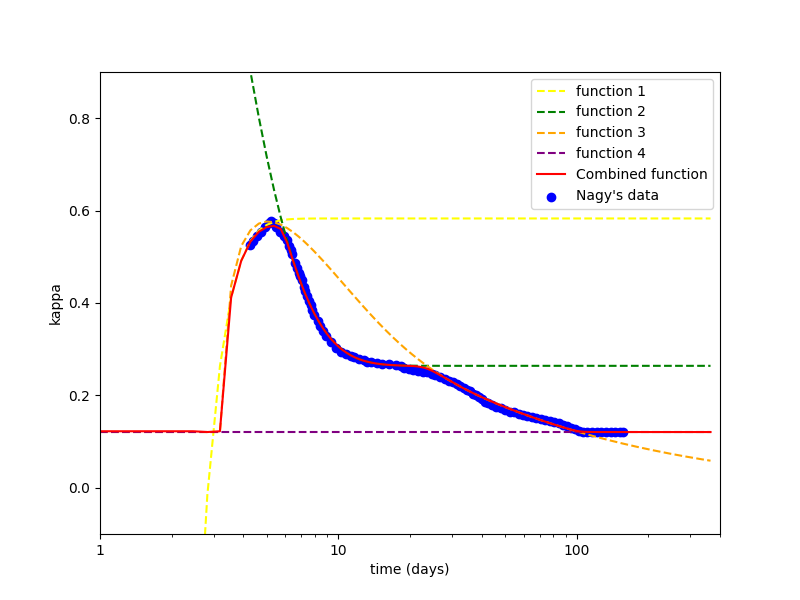
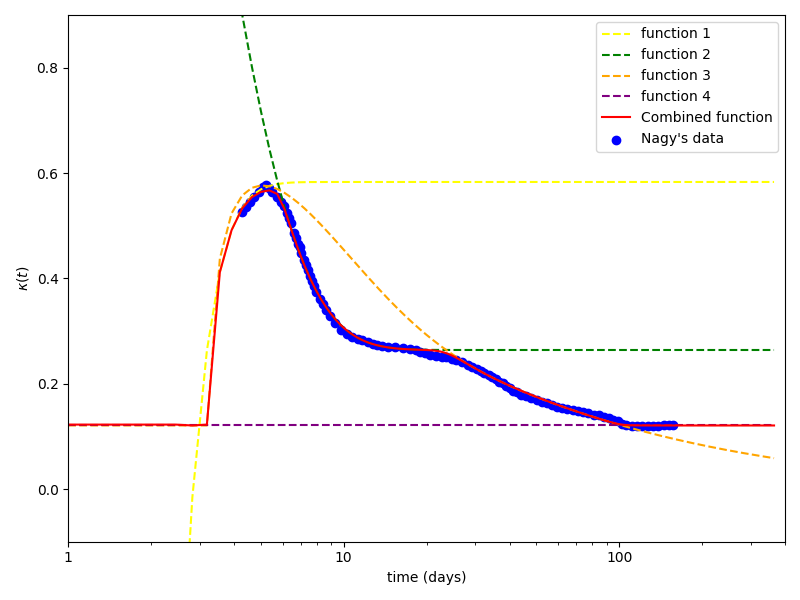
More paramater behaviour
missing bracket, nicer number formatting, wider range of test values, comments, more plots more better,

run into a horrid issue where Windows is bad and can't address floats over 64bits.  Uploading this now just to keep it safe.

diff --git a/arnett_small_R.py b/arnett_small_R.py
@@ -42,11 +42,13 @@ def l_ni(t, m, v_sc, kappa: callable = kappa_const):
 
     def l_ni_integral(z):
         """z is the variable of integration"""
-        res = np.exp((-2 * z * y) + pow(z, 2)) * 2 * z
+        print("NI", "  x=", x, "  y=", y, "  z=", z, "  m=", m, "  v_sc=", v_sc)
+        res = np.exp((-2 * z * y) + np.power(z, 2)) * 2 * z
+        print(f"l_ni_integral = {res: .3e}")
         return res
 
-    result = np.exp(-pow(x, 2)) * quad(l_ni_integral, 0, x)[0]
-    print(f"x={x:.5f}\ty={y:.3f}\txy={(x * y):.3f}\tlambda_ni(x,y)={result:.3f}")
+    result = np.exp(-np.power(x, 2)) * quad(l_ni_integral, 0, x)[0]
+    #print(f"x={x:.5f}\ty={y:.3f}\txy={(x * y):.3f}\tlambda_ni(x,y)={result:.3f}")
     return x * y, result
 
 
@@ -59,18 +61,21 @@ def l_co(t, m, v_sc, kappa: callable = kappa_const):
 
     def l_co_integral(z):
         """z is the variable of integration"""
+        print("CO", "x=", x, "y=", y, "  z=", z)
         # MATLAB: 2*z.*(exp(-2*z*yp) - exp(-2*z*y))/(1 - tau_ni/tau_co).*exp(z.^2)).
-        res = 2 * z * (np.exp(-2 * z * yp) - np.exp(-2 * z * y)) / (1 - tau_ni/tau_co) * np.exp(pow(z, 2))
+        res = 2 * z * (np.exp(-2 * z * yp) - np.exp(-2 * z * y)) / (1 - tau_ni/tau_co) * np.exp(np.power(z, 2))
+        print(f"lambda_co_integral={res:.3f}")
         return res
 
-    result = np.exp(-pow(x, 2)) * quad(l_co_integral, 0, x)[0]
+    result = np.exp(-np.power(x, 2)) * quad(l_co_integral, 0, x)[0]
+    # print(f"lambda_co(x,y)={result:.3f}")
     return result
 
 
-def bolo_l(t, m, v_sc, m_ni, kappa: callable = kappa_const):
+def bolo_l(t, m: np.longdouble, v_sc: np.longdouble, m_ni: np.longdouble, kappa: callable = kappa_const):
     #print(f"inputs: t={t}, m={m}, v_sc={v_sc}, m_ni={m_ni}")
 
-    def deposition():
+    def deposition():  # checked
         tau_m = np.sqrt((2 * kappa(t) * m) / (beta * c * v_sc))
         R = v_sc * tau_m  # is this the correct V and tau?
         rho = m / (4 / 3 * np.pi * R ** 3)
@@ -79,7 +84,9 @@ def bolo_l(t, m, v_sc, m_ni, kappa: callable = kappa_const):
         D = G * (1 + 2 * G * (1 - G) * (1 - 0.75 * G))
         return D
     # evaluate (D_ni * e_ni * m_ni * lambda_ni) + (D_co * e_co * m_ni * lambda_co)
-    return (deposition() * e_ni * m_ni * l_ni(t, m, v_sc, kappa=kappa)[1]) + ((0.966 * deposition() + 0.034) * e_co *m_ni * l_co(t, m, v_sc, kappa=kappa))
+    res = (deposition() * e_ni * m_ni * l_ni(t, m, v_sc, kappa=kappa)[1]) + ((0.966 * deposition() + 0.034) * e_co *m_ni * l_co(t, m, v_sc, kappa=kappa))
+    # print(f"L = {res:.3e}")
+    return res
 
 
 if __name__ == "__main__":
@@ -92,7 +99,7 @@ if __name__ == "__main__":
     v_sc = 1.2e9
     m_ni = 0.7 * m_sun
 
-    times = np.linspace(skip_days * day2sec, end_day * day2sec, 200)
+    times = np.linspace(skip_days * day2sec, end_day * day2sec, 500)
 
     # constant kappa
     lni_res = []
@@ -106,7 +113,7 @@ if __name__ == "__main__":
         lni_res.append(out[1])
         lco_res.append(l_co(t, m=m, v_sc=v_sc))
     for t in times:
-        lum_res.append(bolo_l(t, m=m, v_sc=v_sc, m_ni=0.7))
+        lum_res.append(bolo_l(t, m=m, v_sc=v_sc, m_ni=0.7*m_sun))
 
     # variable kappa
     lni_res_var = []
@@ -120,17 +127,17 @@ if __name__ == "__main__":
         lni_res_var.append(out[1])
         lco_res_var.append(l_co(t, m=m, v_sc=v_sc, kappa=nagy.kappa_nagy))
     for t in times:
-        lum_res_var.append(bolo_l(t, m=m, v_sc=v_sc, m_ni=0.7, kappa=nagy.kappa_nagy))
+        lum_res_var.append(bolo_l(t, m=m, v_sc=v_sc, m_ni=0.7*m_sun, kappa=nagy.kappa_nagy))
 
     # plotting
     print(f"Using test values of m=1.45*m_sun g, v_sc=1.2e9 cm/s ")
     fig, ax = plt.subplots(1, 2)
     fig.set_size_inches(12, 6.4)
 
-    ax[0].loglog(times / day2sec, lni_res, label=fr"$\Lambda_{{ni}}$ Constant kappa ($\kappa = {kappa_const(0)}$)")
-    ax[0].loglog(times / day2sec, lni_res_var, label=r"$\Lambda_{{ni}}$ Variable kappa")
-    ax[0].loglog(times / day2sec, lco_res, label=fr"$\Lambda_{{co}}$ Constant kappa ($\kappa = {kappa_const(0)}$)")
-    ax[0].loglog(times / day2sec, lco_res_var, label=r"$\Lambda_{{co}}$ Variable kappa")
+    ax[0].loglog(times / day2sec, lni_res, '--', label=fr"$\Lambda_{{ni}}$ Constant kappa ($\kappa = {kappa_const(0)}$)")
+    ax[0].loglog(times / day2sec, lni_res_var, '--', label=r"$\Lambda_{{ni}}$ Variable kappa")
+    ax[0].loglog(times / day2sec, lco_res, '--', label=fr"$\Lambda_{{co}}$ Constant kappa ($\kappa = {kappa_const(0)}$)")
+    ax[0].loglog(times / day2sec, lco_res_var, '--', label=r"$\Lambda_{{co}}$ Variable kappa")
     ax[0].set_xlabel(r"time (days)")
     ax[0].set_ylabel(r"$\Lambda \left(x, y\right)$")
 

diff --git a/parameter_behaviour_tests.py b/parameter_behaviour_tests.py
@@ -9,58 +9,64 @@ m_sun = 1.989e33  # g         | solar mass in grams
 
 # test values:
 m_default = 6 * m_sun
-m_array = [1.5 * m_sun, 3 * m_sun, 4.5 * m_sun, 6 * m_sun, 7.5 * m_sun]
-v_sc_default = 1e9
-v_sc_array = [0.5e9, 1e9, 1.5e9, 2e9]
-m_ni_default = 0.7 * m_sun
-m_ni_array = [0.1 * m_sun, 0.25 * m_sun, 0.5 * m_sun, 0.7 * m_sun, 1 * m_sun]
+m_array = [1.5 * m_sun, 3 * m_sun, 4.5 * m_sun, 6 * m_sun, 7.5 * m_sun, 9 * m_sun]
+v_sc_default = 1.2e9
+v_sc_array = [0.6e9, 1.2e9, 1.8e9, 2.4e9, 3e9, 3.6e9]
+m_ni_default = 0.75 * m_sun
+m_ni_array = [0.01 * m_sun, 0.1 * m_sun, 0.25 * m_sun, 0.5 * m_sun, 0.75 * m_sun, 1 * m_sun]
+m_ni_array = np.linspace(0.01 * m_sun, m_sun, 6)
 
 skip_days = 1  # Days to skip at start. (shock breakout makes it inacurate)
-end_day = 200  # day on which to end simulation
-times = np.linspace(skip_days * day2sec, end_day * day2sec, 300)
+end_day = 300  # day on which to end simulation
+times = np.linspace(skip_days * day2sec, end_day * day2sec, 1000)
 
 m_results = dict()
 v_sc_results = dict()
 m_ni_results = dict()
+
+# Generate data:
 
 for m in m_array:
     res = []
     for t in times:
         res.append(bolo_l(t, m, v_sc_default, m_ni_default, kappa=kappa_nagy))
     m_results[str(m)] = res
+    print(f"For M = {m/m_sun} M_sun, peak of L={max(res):.3E} ergs s^-1 at t={times[np.argmax(res)]/day2sec} days")
 
 for v_sc in v_sc_array:
     res = []
     for t in times:
         res.append(bolo_l(t, m_default, v_sc, m_ni_default, kappa=kappa_nagy))
     v_sc_results[str(v_sc)] = res
+    print(f"For v_sc = {v_sc/1e9}e9, peak of L={max(res):.3E} ergs s^-1 at t={times[np.argmax(res)]/day2sec} days")
 
 for m_ni in m_ni_array:
     res = []
     for t in times:
         res.append(bolo_l(t, m_default, v_sc_default, m_ni, kappa=kappa_nagy))
     m_ni_results[str(m_ni)] = res
+    print(f"For M_ni = {m_ni/m_sun} M_sun, peak of L={max(res):.3E} ergs s^-1 at t={times[np.argmax(res)]/day2sec} days")
 
 
 # prepare figures/axes
 
 fig, (ax0, ax1, ax2) = plt.subplots(ncols=3, sharey="all")
-fig.set_size_inches(10, 5)
+fig.set_size_inches(11, 6.4)
 ax1.set_xticklabels([])
 ax2.set_xticklabels([])
 
 # plot m
 for key in m_results.keys():
     ax0.loglog(np.array(times) / day2sec, m_results[key], label=fr"$M$={float(key) / m_sun:.2f} $M_{{\odot}}$")
-    ax0.set_ylabel(r"Luminosity (ergs s$^{-1}$")
+    ax0.set_ylabel(r"Luminosity (ergs s$^{-1}$)")
     ax0.set_xlabel("time (days)")
     ax0.set_title(r"Varying Ejecta Mass, $M$")
     ax0.legend()
 
 # plot v_sc
 for key in v_sc_results.keys():
-    ax1.loglog(np.array(times) / day2sec, v_sc_results[key], label=fr"$v_{{sc}}$={float(key):.2E}")
-    # ax[1].set_ylabel(r"Luminosity (ergs s$^{-1}$")
+    ax1.loglog(np.array(times) / day2sec, v_sc_results[key], label=fr"$v_{{sc}}$={float(key)/1e9:.1f}$\times 10^9$")
+    # ax[1].set_ylabel(r"Luminosity (ergs s$^{-1}$)")
     ax1.set_xlabel("time (days)")
     ax1.set_title(r"Varying Velocity Scale, $V_{sc}$")
     ax1.legend()
@@ -69,7 +75,7 @@ for key in v_sc_results.keys():
 for key in m_ni_results.keys():
     ax2.loglog(np.array(times) / day2sec, m_ni_results[key],
                label=fr"$M_{{Ni}}$={float(key) / m_sun:.2f} $M_{{\odot}}$")
-    # ax[2].set_ylabel(r"Luminosity (ergs s$^{-1}$")
+    # ax[2].set_ylabel(r"Luminosity (ergs s$^{-1}$)")
     ax2.set_xlabel("time (days)")
     ax2.set_title(r"Varying Nickel Mass, $M_{Ni}$")
     ax2.legend()
@@ -83,3 +89,7 @@ for axis in [ax0.xaxis, ax1.xaxis, ax2.xaxis, ]:
 
 plt.savefig("Parameter_behaviour.png")
 plt.show()
+
+
+
+

diff --git a/test_fit.py b/test_fit.py
@@ -2,7 +2,7 @@ from arnett_small_R import bolo_l
 from nagy.nagy import kappa_nagy
 from lmfit import Model, Parameters
 from collections import Iterable
-from numpy import loadtxt, log10, array
+from numpy import loadtxt, log10, array, sqrt
 from matplotlib import pyplot as plt
 from matplotlib.ticker import ScalarFormatter
 
@@ -21,15 +21,15 @@ def fit_me(times: Iterable, m, v_sc, m_ni, shift):
         results.append(log10(bolo_l(t, m, v_sc, m_ni, kappa=kappa_nagy)))
     return results
 
-data = "data/2006aj_nature.txt"
-data_skip = 1
+data = "data/2009jf_bolom.txt"
+data_skip = 2
 phase, log_lum, uncert = loadtxt(data, unpack=True)
 
 time = array([(t + abs(phase[0]))*day2sec for t in phase])[data_skip:]
 log_lum = log_lum[data_skip:]
 # time[0]=time[1]/2
 # non-zero start or bad things tend happen
-
+print("t[0] =", time[0])
 
 lc_model = Model(fit_me)
 print('parameter names: {}'.format(lc_model.param_names))
@@ -37,10 +37,10 @@ print('independent variables: {}'.format(lc_model.independent_vars))
 
 # params = lc_model.make_params(m=6 * m_sun, v_sc=1e9, m_ni=0.7 * m_sun, shift=500)
 params = Parameters()
-params.add(name="m", value=6*m_sun, min=0.1*m_sun, max=20*m_sun)
-params.add(name="v_sc", value=5e9, min=1e8, max=20e9)
-params.add(name="m_ni", value=0.7*m_sun, min=0.001*m_sun, max=1*m_sun)
-params.add(name="shift", value=500, min=0, max=3*day2sec)
+params.add(name="m", value=1*m_sun, min=1*m_sun, max=20*m_sun)
+params.add(name="v_sc", value=5e9, min=5e8, max=20e9)
+params.add(name="m_ni", value=0.1*m_sun, min=0.001*m_sun, max=1*m_sun)
+params.add(name="shift", value=500, min=1, max=3*day2sec)
 
 
 # test = lc_model.eval(params=params, times=time)
@@ -57,6 +57,7 @@ try:
     result = lc_model.fit(log_lum, params, times=time)
 except Exception as e:
     print(f"Something went wrong during fitting, perhaps parameters went mad: \033[91m{str(e)}")
+    exit(1)
 else:
     print("Done!")
     print(result.fit_report())  # gives things like chi square
@@ -72,6 +73,10 @@ else:
     ax.xaxis.set_major_formatter(formatter)
     plt.show()
 
+print(f"M = {result.params['m'].value/m_sun:.5f} solar masses\n"
+      f"v_sc = {result.params['v_sc'].value/1e9:.5f} e9 cm/s\n"
+      f"M_Ni = {result.params['m_ni'].value/m_sun:.5f} solar masses")
+
+print(f"sqrt(2.53M_Ni/M) = {sqrt(2.53*result.params['m_ni'].value/result.params['m'].value)}")
 
 # todo: Do a finer plot with the fitted parameters (e.g. more and evenly-spaced timesteps:
-

diff --git a/more_param_tests.py b/more_param_tests.py
@@ -1,0 +1,69 @@
+from arnett_small_R import l_ni, bolo_l, l_co
+from nagy.nagy import kappa_nagy
+from matplotlib import pyplot as plt
+import numpy as np
+
+day2sec = 86400  # s          | seconds in a day
+m_sun = 1.989e33  # g         | solar mass in grams
+
+m_array = np.linspace(0.5 * m_sun, 15 * m_sun, 100)
+v_sc_array = np.linspace(0.6e8, 10.8e9, 100)
+t = 20
+
+mass2lambdani = []
+for m in m_array:
+    mass2lambdani.append(np.log10(l_ni(t, m, 1.2e9, kappa_nagy)[1]))
+
+mass2lambdaco = []
+for m in m_array:
+    mass2lambdaco.append(np.log10(l_co(t, m, 1.2e9, kappa_nagy)))
+
+mass2lum = []
+for m in m_array:
+    mass2lum.append(np.log10(bolo_l(t, m, 1.2e9, 0.75 * m_sun, kappa_nagy)))
+
+
+vsc2lambdani = []
+for v_sc in v_sc_array:
+    vsc2lambdani.append(np.log10(l_ni(t, 6 * m_sun, v_sc, kappa_nagy)[1]))
+
+vsc2lambdaco = []
+for v_sc in v_sc_array:
+    vsc2lambdaco.append(np.log10(l_co(t, 6 * m_sun, v_sc, kappa_nagy)))
+
+
+vsc2lum = []
+for v_sc in v_sc_array:
+    vsc2lum.append(np.log10(bolo_l(t, 6 * m_sun, v_sc, 0.75 * m_sun, kappa_nagy)))
+
+
+fig, ((ax0, ax1, ax2), (ax3, ax4, ax5)) = plt.subplots(ncols=3, nrows=2)
+fig.set_size_inches(8.5, 5.2)
+ax0.semilogx(m_array / m_sun, mass2lambdani, 'k-')
+ax0.set_ylabel(r"$\log_{10}\ \Lambda_{Ni}\left(x, y\right)$")
+ax0.set_xlabel(r"$M\ (M_\odot)$")
+
+ax1.semilogx(m_array / m_sun, mass2lambdaco, 'k-')
+ax1.set_ylabel(r"$\log_{10}\ \Lambda_{Co}\left(x, y\right)$")
+ax1.set_xlabel(r"$M\ (M_\odot)$")
+
+ax2.semilogx(m_array / m_sun, mass2lum, 'k-')
+ax2.set_ylabel(r"$\log_{10}\ L_{{bolo}}(t)$")
+ax2.set_xlabel(r"$M\ (M_\odot)$")
+
+ax3.semilogx(v_sc_array, vsc2lambdani, 'k-')
+ax3.set_ylabel(r"$\log_{10}\ \Lambda\left(x, y\right)$")
+ax3.set_xlabel(r"$v_{sc}$")
+
+ax4.semilogx(v_sc_array, vsc2lambdaco, 'k-')
+ax4.set_ylabel(r"$\log_{10}\ \Lambda_{Co}\left(x, y\right)$")
+ax4.set_xlabel(r"$v_{sc}$")
+
+ax5.semilogx(v_sc_array, vsc2lum, 'k-')
+ax5.set_ylabel(r"$\log_{10}\ L_{{bolo}}(t)$")
+ax5.set_xlabel(r"$v_{sc}$")
+
+
+fig.tight_layout()
+plt.savefig("Extra_params.png")
+plt.show()

diff --git a/nagy/nagy.py b/nagy/nagy.py
@@ -101,10 +101,11 @@ if __name__ == "__main__":
     ax.set_xlim(1, 400)
     ax.set_ylim(-0.1, 0.9)
     ax.set_xlabel("time (days)")
-    ax.set_ylabel("kappa")
+    ax.set_ylabel(r"$\kappa\left(t\right)$")
     formatter = ScalarFormatter()
     formatter.set_scientific(False)
     ax.xaxis.set_major_formatter(formatter)
+    plt.tight_layout()
     fig.savefig("nagy_func.png")
     plt.show()
 
